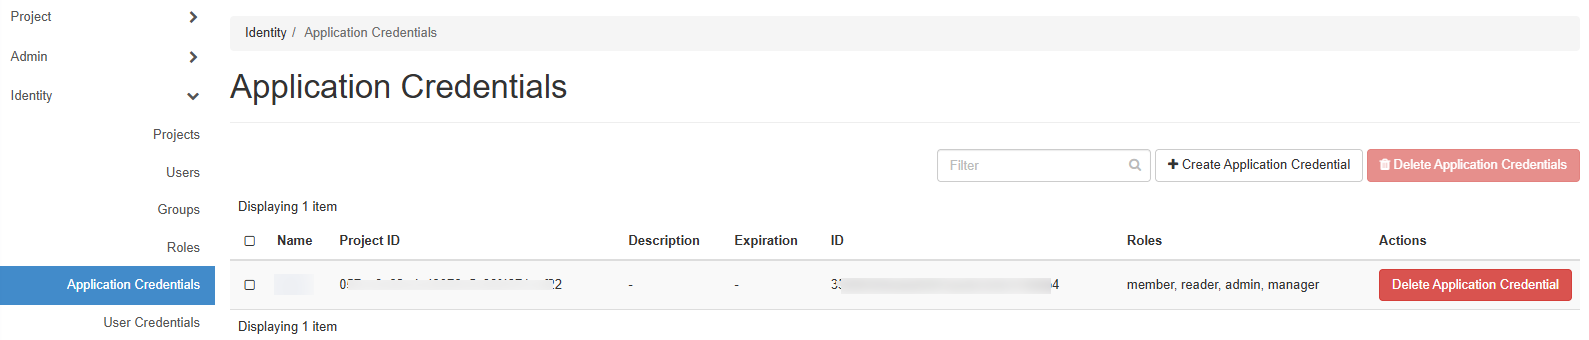
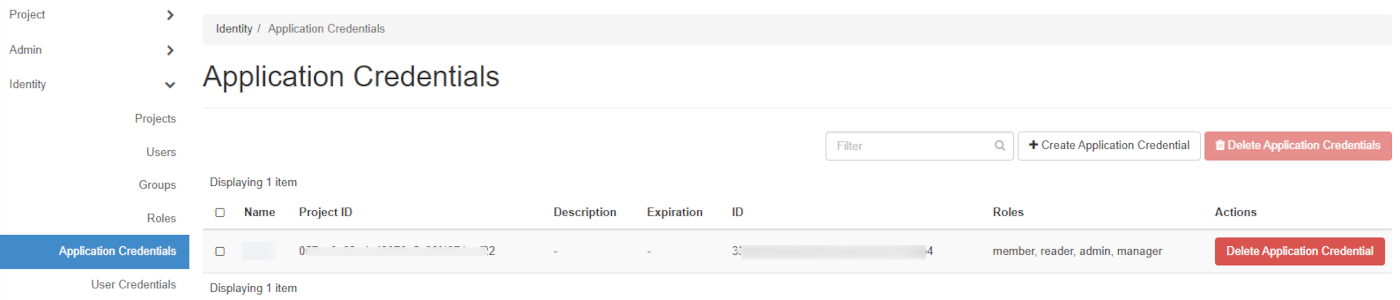
add en + screen resize + info raid/lacp

diff --git a/pages/hosted_private_cloud/opcp/opcp-how-to-use-terraform/guide.en-gb.md b/pages/hosted_private_cloud/opcp/opcp-how-to-use-terraform/guide.en-gb.md
@@ -1,0 +1,257 @@
+---
+title: "How to use Terraform with OPCP"
+excerpt: "Learn how to generate an Application Credential from Horizon and automate the deployment of your OPCP resources with Terraform"
+updated: 2026-04-29
+---
+
+## Objective
+
+[Terraform](https://www.terraform.io/) is an open source **Infrastructure as Code (IaC)** tool developed by [HashiCorp](https://www.hashicorp.com/). It allows you to describe and provision your infrastructure declaratively from configuration files written in *HashiCorp Configuration Language* (HCL).
+
+Since the **OPCP** offer is based on **OpenStack**, you can use the **Terraform OpenStack provider** to automate the deployment of your resources: instances, networks, volumes, key pairs, etc.
+
+> [!primary]
+> This guide also applies to [**OpenTofu**](https://opentofu.org/), the open source fork of Terraform maintained by the Linux Foundation. OpenTofu is compatible with the HCL syntax and Terraform providers: simply replace the `terraform` command with `tofu` in the examples below.
+
+**This guide details the steps required to generate an *Application Credential* from Horizon, configure Terraform and deploy a first server on your OPCP infrastructure.**
+
+## Requirements
+
+- An active [OPCP](/links/hosted-private-cloud/onprem-cloud-platform) service.
+- A **user account** with sufficient rights to log in to Horizon on the OPCP offer.
+- [Terraform installed](https://developer.hashicorp.com/terraform/install) (version >= 1.0) or [OpenTofu](https://opentofu.org/docs/intro/install/) on your workstation.
+- An **SSH key pair** on your local workstation to access your instance.
+- A **private network** previously created in your OPCP project (see the guide [How to install an instance from the Horizon interface](/pages/hosted_private_cloud/opcp/opcp-setup-instance)).
+
+## Instructions
+
+### 1. Creating an Application Credential from Horizon
+
+To allow Terraform to communicate with your OPCP infrastructure, you need to generate an **Application Credential** pair (`id` / `secret`) from the Horizon interface. This mechanism avoids using your Keycloak credentials directly and provides dedicated authentication for your automation workflows, with a permissions scope limited to the current project.
+
+#### Logging in to Horizon
+
+Log in to the **Horizon** interface of your OPCP environment, then select the **project** in which you want to deploy your resources via Terraform. For more information, refer to the [Getting started with your OPCP](/pages/hosted_private_cloud/opcp/opcp-getting-started) guide.
+
+#### Creating the Application Credential
+
+In the left-hand menu, click on `Identity`{.action}, then on `Application Credentials`{.action}.<br><br>
+![horizon-identity-application-credentials](images/01-application-credential-step01.png){.thumbnail}
+
+Click on `+ Create Application Credential`{.action}.<br><br>
+![horizon-create-application-credential](images/01-application-credential-step02.png){.thumbnail}
+
+Fill in the following fields:
+
+| Field | Description |
+|--------|--------------|
+| **Name** | Enter a name for your Application Credential (e.g.: *terraform-cred*). |
+| **Description** | Optional. Add a description if needed. |
+| **Secret** | Optional. If left blank, a secret will be generated automatically. |
+| **Expiration Date / Expiration Time** | Optional. Set an expiration date. |
+| **Roles** | Select the roles to associate with the credential (e.g.: *member*, *admin*). |
+| **Access Rules** | Optional. Allows you to restrict the authorised actions. |
+| **Unrestricted** | Leave unchecked to limit the possible actions. |
+
+Click on `Create Application Credential`{.action}.
+
+> [!warning]
+> Once the window is closed, the **secret will no longer be accessible**. Download the `clouds.yaml` or `openrc` file offered by Horizon, or copy the `id` and `secret` values to a secure location.
+
+![horizon-application-credential-download](images/02-application-credential-step03.png){.thumbnail}
+
+> [!primary]
+> For the rest of this tutorial, **download the `openrc` file**: it will be used in the next step to authenticate Terraform against your OPCP infrastructure.
+
+### 2. Preparing the Terraform environment
+
+#### Creating the working directory
+
+Create a directory dedicated to your Terraform project:
+
+```bash
+mkdir terraform-opcp && cd terraform-opcp
+```
+
+#### Defining the OpenStack provider
+
+In a file named `provider.tf`, add the following lines:
+
+```hcl
+terraform {
+  required_version = ">= 1.0"
+  required_providers {
+    openstack = {
+      source  = "terraform-provider-openstack/openstack"
+      version = ">= 3.0.0"
+    }
+  }
+}
+
+provider "openstack" {
+  
+}
+```
+
+No parameters are required in the `provider`{.action} block: the OpenStack provider automatically retrieves the authentication information from the `OS_*` environment variables.
+
+#### Loading OpenStack environment variables
+
+When you created your Application Credential, Horizon offered to download a `clouds.yaml` or `openrc` file. The simplest approach is to source this `openrc.sh` file in your shell before running Terraform:
+
+```bash
+source openrc.sh
+```
+
+> [!primary]
+> The `openrc.sh` file exports `OS_AUTH_URL`, `OS_REGION_NAME`, `OS_APPLICATION_CREDENTIAL_ID` and `OS_APPLICATION_CREDENTIAL_SECRET`, among others. These variables will automatically be used by the Terraform OpenStack provider.
+
+#### Initialisation
+
+Download the OpenStack provider plugins:
+
+```bash
+terraform init
+```
+
+### 3. Creating a server
+
+In a `main.tf` file, declare the resources required to create an instance attached to an existing private network:
+
+```hcl
+# Variables related to the instance
+variable "instance_name" {
+  description = "Name of the instance that will be created in OPCP"
+  type        = string
+  default     = "instance-terraform-name"
+}
+
+variable "image_name" {
+  description = "Name of the image to use for the instance (e.g.: Debian 12 OPCP)"
+  type        = string
+  default     = "Debian 12 OPCP"
+}
+
+variable "flavor_name" {
+  description = "Baremetal flavor defining the hardware resources of the instance (e.g.: scale-1, scale-2, etc.)"
+  type        = string
+  default     = "scale-1"
+}
+
+variable "network_name" {
+  description = "Name of the existing network to which the instance will be attached"
+  type        = string
+  default     = "<your-network-name>"
+}
+
+variable "key_name" {
+  description = "Name of the SSH key pair to associate with the instance"
+  type        = string
+  default     = "terraform-key"
+}
+
+# Creating an instance
+resource "openstack_compute_instance_v2" "terraform_instance" {
+  name        = var.instance_name
+  image_name  = var.image_name
+  flavor_name = var.flavor_name
+  key_pair    = var.key_name
+
+  network {
+    name = var.network_name
+  }
+
+  lifecycle {
+    # Prevents Terraform from detecting drift when the base image is updated
+    ignore_changes = [
+      image_name
+    ]
+  }
+
+  # Useful metadata
+  metadata = {
+    environment = "production"
+    managed_by  = "terraform"
+  }
+
+  # Longer timeouts (baremetal provisioning is slow)
+  timeouts {
+    create = "60m"
+    delete = "30m"
+  }
+}
+
+# Useful outputs after creation
+output "instance_id" {
+  value = openstack_compute_instance_v2.terraform_instance.id
+}
+
+output "instance_ip" {
+  value = openstack_compute_instance_v2.terraform_instance.access_ip_v4
+}
+```
+
+> [!primary]
+> The names of available images, flavors and networks can be listed from Horizon or with the OpenStack CLI (`openstack image list`, `openstack flavor list`, `openstack network list`). To configure the CLI, refer to the guide [How to use the API and get credentials](/pages/hosted_private_cloud/opcp/opcp-use-api-get-credentials).
+
+#### Reviewing the plan
+
+Before any deployment, preview the actions that will be performed:
+
+```bash
+terraform plan
+```
+
+#### Applying the configuration
+
+Deploy the instance with the following command:
+
+```bash
+terraform apply
+```
+
+Confirm with `yes` when Terraform asks you to. Once the creation is complete, the instance is visible in the Horizon interface, in the `Compute`{.action} > `Instances`{.action} section.
+
+### 4. Additional node-level configurations (RAID, LACP)
+
+Some configurations must be applied **on the baremetal node** before deploying the instance and are not covered by the Terraform OpenStack provider. They require **admin** Ironic rights (or nodes transferred to your project) and must be performed via the OpenStack CLI.
+
+> [!primary]
+> **Software RAID**: to configure software RAID on a baremetal node, refer to the guide [How to set up software RAID on a node](/pages/hosted_private_cloud/opcp/how-to-setup-softraid-on-node). The `target_raid_config` attribute is not exposed by the `openstack_baremetal_node_v1` resource. This operation must be performed **before** the `terraform apply` that deploys the instance, and the configured node should then be targeted via `availability_zone = "nova::<node-id>"`.
+
+> [!primary]
+> **LACP / bonding**: to aggregate several network interfaces of a node, refer to the guide [How to set up LACP on a node](/pages/hosted_private_cloud/opcp/how-to-setup-lacp-on-node). Baremetal port and bonding configuration cannot be managed declaratively by the Terraform OpenStack provider. This operation must be performed **before** the `terraform apply` that deploys the instance.
+
+### 5. Removing the infrastructure
+
+To delete all resources created via Terraform:
+
+```bash
+terraform destroy
+```
+
+> [!warning]
+> `terraform destroy` does not reset the RAID or LACP configurations applied to the node. To remove them, follow the dedicated section of the corresponding guide using the OpenStack CLI.
+
+### 6. Troubleshooting
+
+| Issue | Possible cause | Solution |
+|-----------|----------------|-----------|
+| `Authentication failed` | Wrong `application_credential_id` or `secret` | Check the credentials in Horizon (`Identity`{.action} > `Application Credentials`{.action}). |
+| `Could not find image` | The image name does not match | List the available images via `openstack image list` or from Horizon. |
+| `No suitable endpoint could be found` | Wrong `auth_url` URL or non-existent region | Check the Keystone URL and the region in `Project`{.action} > `API Access`{.action}. |
+| `Network not found` | Private network missing in the project | Create a private network beforehand from Horizon (`Network`{.action} > `Networks`{.action}). |
+
+### 7. References
+
+- [Official Terraform documentation](https://developer.hashicorp.com/terraform)
+- [Official OpenTofu documentation](https://opentofu.org/docs/)
+- [Terraform OpenStack provider](https://registry.terraform.io/providers/terraform-provider-openstack/openstack/latest/docs)
+- [openstack_compute_instance_v2 resource](https://registry.terraform.io/providers/terraform-provider-openstack/openstack/latest/docs/resources/compute_instance_v2)
+- [OpenStack Application Credentials](https://docs.openstack.org/keystone/latest/user/application_credentials.html)
+
+## Go further
+
+If you need training or technical assistance for the implementation of our solutions, contact your sales representative or click [this link](/links/professional-services) to request a quote and have your project analyzed by our Professional Services team experts.
+
+Join our [community of users](/links/community).

diff --git a/pages/hosted_private_cloud/opcp/opcp-how-to-use-terraform/guide.fr-fr.md b/pages/hosted_private_cloud/opcp/opcp-how-to-use-terraform/guide.fr-fr.md
@@ -1,5 +1,5 @@
 ---
-title: "OPCP - Comment utiliser Terraform avec OPCP"
+title: "Comment utiliser Terraform avec OPCP"
 excerpt: "Découvrez comment générer une Application Credential depuis Horizon et automatiser le déploiement de vos ressources OPCP avec Terraform"
 updated: 2026-04-29
 ---
@@ -10,13 +10,16 @@ updated: 2026-04-29
 
 L'offre **OPCP** reposant sur **OpenStack**, vous pouvez utiliser le **provider Terraform OpenStack** afin d'automatiser le déploiement de vos ressources : instances, réseaux, volumes, paires de clés, etc.
 
+> [!primary]
+> Ce guide est également valable avec [**OpenTofu**](https://opentofu.org/), le fork open source de Terraform maintenu par la Linux Foundation. OpenTofu est compatible avec la syntaxe HCL et les providers Terraform : il vous suffit de remplacer la commande `terraform` par `tofu` dans les exemples ci-dessous.
+
 **Ce guide détaille les étapes nécessaires pour générer une *Application Credential* depuis Horizon, configurer Terraform et déployer un premier serveur sur votre infrastructure OPCP.**
 
 ## Prérequis
 
 - Disposer d'un service [OPCP](/links/hosted-private-cloud/onprem-cloud-platform) actif.
 - Posséder un **compte utilisateur** avec les droits suffisants pour se connecter à Horizon sur l'offre OPCP.
-- Avoir [installé Terraform](https://developer.hashicorp.com/terraform/install) (version >= 1.0) sur votre poste de travail.
+- Avoir [installé Terraform](https://developer.hashicorp.com/terraform/install) (version >= 1.0) ou [OpenTofu](https://opentofu.org/docs/intro/install/) sur votre poste de travail.
 - Disposer d'une **paire de clés SSH** sur votre poste local pour accéder à votre instance.
 - Avoir préalablement créé un **réseau privé** dans votre projet OPCP (voir le guide [Comment installer une instance depuis l'interface Horizon](/pages/hosted_private_cloud/opcp/opcp-setup-instance)).
 
@@ -46,7 +49,7 @@ Renseignez les champs suivants :
 | **Description** | Optionnel. Ajoutez une description si nécessaire. |
 | **Secret** | Optionnel. Si non renseigné, un secret sera généré automatiquement. |
 | **Expiration Date / Expiration Time** | Optionnel. Définissez une date d'expiration. |
-| **Roles** | Sélectionnez les rôles à associer à la credential (ex. : *member*). |
+| **Roles** | Sélectionnez les rôles à associer à la credential (ex. : *member*, *admin*). |
 | **Access Rules** | Optionnel. Permet de restreindre les actions autorisées. |
 | **Unrestricted** | Laissez décoché pour limiter les actions possibles. |
 
@@ -55,7 +58,7 @@ Cliquez sur `Create Application Credential`{.action}.
 > [!warning]
 > Une fois la fenêtre fermée, le **secret ne sera plus accessible**. Téléchargez le fichier `clouds.yaml` ou `openrc` proposé par Horizon, ou copiez les valeurs `id` et `secret` dans un emplacement sécurisé.
 
-![horizon-application-credential-download](images/02-application-credential-step03.png){.thumbnail}
+![horizon-application-credential-download](images/01-application-credential-step03.png){.thumbnail}
 
 > [!primary]
 > Pour la suite de ce tutoriel, **téléchargez le fichier `openrc`** : il sera utilisé à l'étape suivante pour authentifier Terraform auprès de votre infrastructure OPCP.
@@ -85,7 +88,9 @@ terraform {
   }
 }
 
-provider "openstack" {}
+provider "openstack" {
+  
+}
 ```
 
 Aucun paramètre n'est nécessaire dans le bloc `provider`{.action} : le provider OpenStack récupère automatiquement les informations d'authentification depuis les variables d'environnement `OS_*`.
@@ -207,7 +212,17 @@ terraform apply
 
 Confirmez avec `yes` lorsque Terraform vous le demande. Une fois la création terminée, l'instance est visible dans l'interface Horizon, dans la section `Compute`{.action} > `Instances`{.action}.
 
-### 4. Suppression de l'infrastructure
+### 4. Configurations complémentaires sur le nœud (RAID, LACP)
+
+Certaines configurations doivent être appliquées **sur le nœud baremetal** avant le déploiement de l'instance et ne sont pas couvertes par le provider Terraform OpenStack. Elles nécessitent des droits **admin** Ironic (ou des nœuds transférés dans votre projet) et restent à effectuer via la CLI OpenStack.
+
+> [!primary]
+> **RAID logiciel** : pour configurer un RAID logiciel sur un nœud baremetal, consultez le guide [Comment configurer un RAID logiciel sur un nœud](/pages/hosted_private_cloud/opcp/how-to-setup-softraid-on-node). L'attribut `target_raid_config` n'est pas exposé par la ressource `openstack_baremetal_node_v1`. Cette opération est à réaliser **avant** le `terraform apply` qui déploie l'instance, en ciblant ensuite le nœud configuré via `availability_zone = "nova::<node-id>"`.
+
+> [!primary]
+> **LACP / bonding** : pour agréger plusieurs interfaces réseau d'un nœud, consultez le guide [Comment configurer LACP sur un nœud](/pages/hosted_private_cloud/opcp/how-to-setup-lacp-on-node). La configuration des ports baremetal et du bonding n'est pas gérable de manière déclarative par le provider Terraform OpenStack. Cette opération est à réaliser **avant** le `terraform apply` qui déploie l'instance.
+
+### 5. Suppression de l'infrastructure
 
 Pour supprimer l'ensemble des ressources créées via Terraform :
 
@@ -215,7 +230,10 @@ Pour supprimer l'ensemble des ressources créées via Terraform :
 terraform destroy
 ```
 
-### 5. Dépannage (Troubleshooting)
+> [!warning]
+> `terraform destroy` ne réinitialise pas les configurations RAID ou LACP appliquées sur le nœud. Pour les retirer, suivez la section dédiée du guide correspondant via la CLI OpenStack.
+
+### 6. Dépannage (Troubleshooting)
 
 | Problème | Cause possible | Solution |
 |-----------|----------------|-----------|
@@ -224,9 +242,10 @@ terraform destroy
 | `No suitable endpoint could be found` | Mauvaise URL `auth_url` ou région inexistante | Vérifiez l'URL Keystone et la région dans `Project`{.action} > `API Access`{.action}. |
 | `Network not found` | Réseau privé absent dans le projet | Créez un réseau privé au préalable depuis Horizon (`Network`{.action} > `Networks`{.action}). |
 
-### 6. Références
+### 7. Références
 
 - [Documentation officielle Terraform](https://developer.hashicorp.com/terraform)
+- [Documentation officielle OpenTofu](https://opentofu.org/docs/)
 - [Provider Terraform OpenStack](https://registry.terraform.io/providers/terraform-provider-openstack/openstack/latest/docs)
 - [Ressource openstack_compute_instance_v2](https://registry.terraform.io/providers/terraform-provider-openstack/openstack/latest/docs/resources/compute_instance_v2)
 - [OpenStack Application Credentials](https://docs.openstack.org/keystone/latest/user/application_credentials.html)
